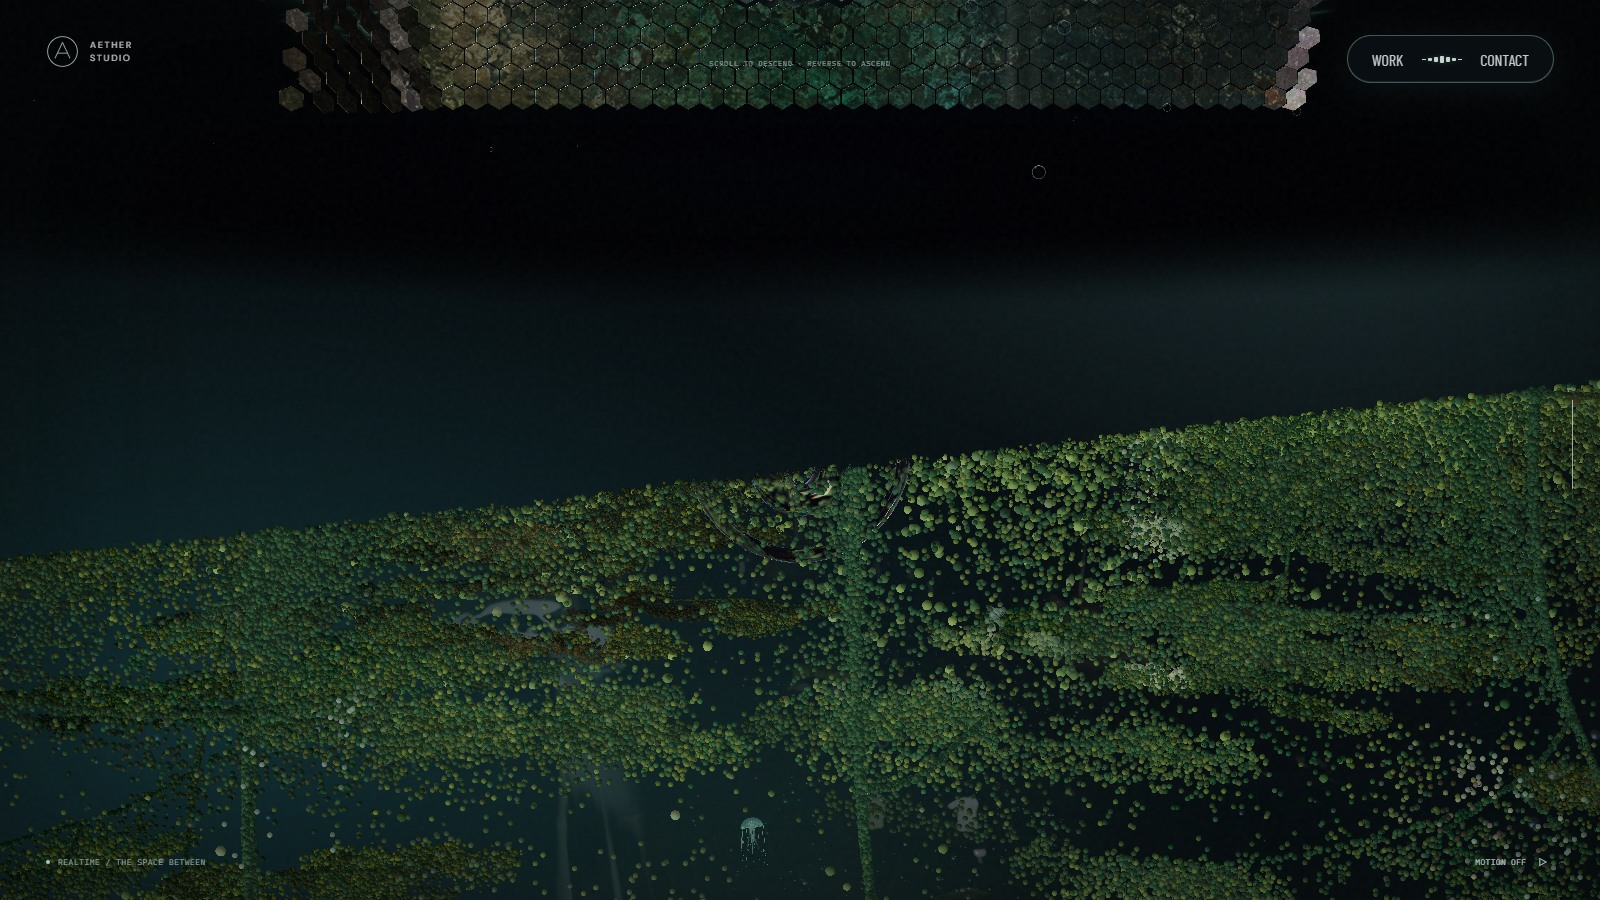
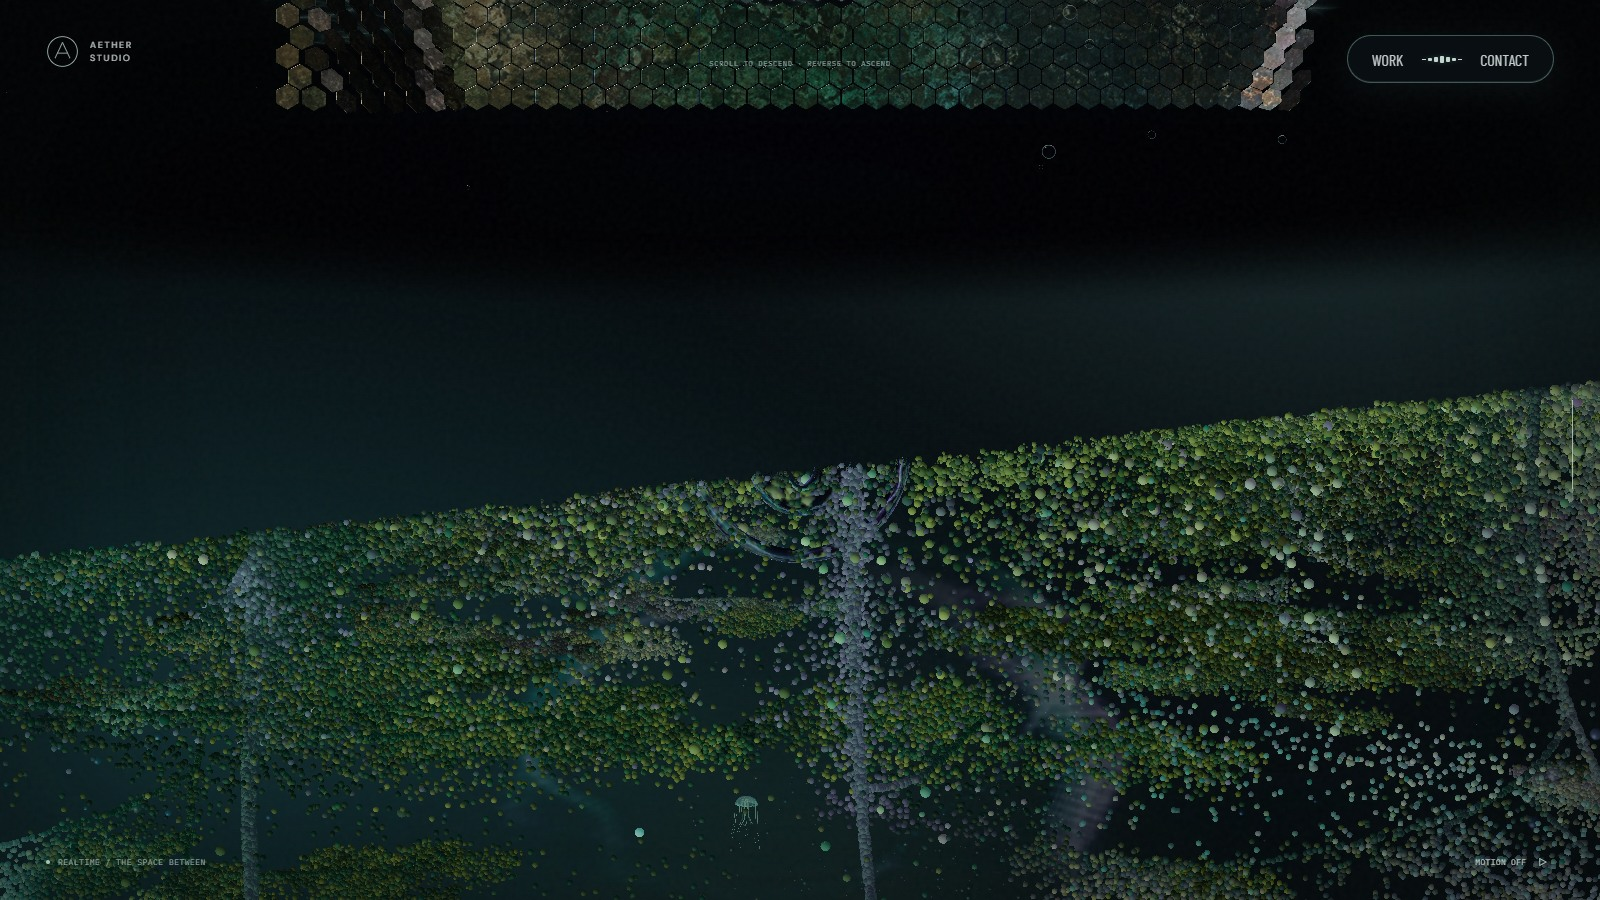
fix: preserve opaque forest depth ordering

diff --git a/src/SceneForest.ts b/src/SceneForest.ts
@@ -114,7 +114,7 @@ const microFragment = /* glsl */ `
 
     float coverage=groveCoverage();
     // A zero hash must not survive a completely closed curtain.
-    if(edge<.01||coverage<.003||coverage<hash(vSeed.xy))discard;
+    if(edge<.12||coverage<.003||coverage<hash(vSeed.xy))discard;
     vec3 n=vec3(p,sqrt(max(0.,1.-r)));
     float light=max(0.,dot(n,normalize(vec3(-.4,.65,.65))));
     vec3 olive=mix(vec3(.014,.028,.003),vec3(.17,.22,.026),vSeed.x);
@@ -124,7 +124,7 @@ const microFragment = /* glsl */ `
     color+=vec3(.22,.26,.15)*pow(light,4.)*.12;
     color+=aetherLightCloud(vWorld,vNormal,uTime,uLightDepth)*uLightStrength*(.13+light*.08);
     color+=vec3(.14,.35,.23)*pointerLight()*(.3+light*.4);
-    gl_FragColor=vec4(finishForest(color),edge);
+    gl_FragColor=vec4(finishForest(color),1.);
     #include <tonemapping_fragment>
     #include <colorspace_fragment>
   }
@@ -277,7 +277,7 @@ export function createSceneForest(scene: THREE.Scene, software: boolean, mobile:
   const particleAssets=createForestParticles(assets,budget)
   const microGeometry=particleAssets.geometry
   const microMaterial=new THREE.ShaderMaterial({
-    uniforms:shared,vertexShader:microVertex,fragmentShader:microFragment,depthWrite:true,depthTest:true,transparent:true,
+    uniforms:shared,vertexShader:microVertex,fragmentShader:microFragment,depthWrite:true,depthTest:true,
     defines:{AETHER_LIGHT_FILM:1},
   })
   materials.push(microMaterial)

diff --git a/tests/fixtures/interaction-harness.ts b/tests/fixtures/interaction-harness.ts
@@ -567,9 +567,9 @@ function probeProductionBoundaryPixels() {
     color: renderer.getClearColor(new THREE.Color()), alpha: renderer.getClearAlpha() }
   const cases = [
     { name: 'aether-spine-vertebrae', region: 'bone', progress: [.635, .65, .665] },
-    { name: 'aether-machine-aperture', region: 'device', progress: [.745, .755, .765, .82] },
-    { name: 'aether-scale-tiles', region: 'scales', progress: [.74, .75, .76, .90] },
-    { name: 'aether-floor-underside', region: 'scales', progress: [.75, .76] },
+    { name: 'aether-machine-aperture', region: 'device', progress: [.735, .745, .755, .82] },
+    { name: 'aether-scale-tiles', region: 'scales', progress: [.735, .745, .755, .90] },
+    { name: 'aether-floor-underside', region: 'scales', progress: [.745, .755] },
   ] as const
   const results = []
   try {

diff --git a/docs/verification/forest-surface-motion.md b/docs/verification/forest-surface-motion.md
@@ -4,7 +4,7 @@
 
 포레스트 보강 입자의 세로 이동 거리와 카메라 높이 기준 반응 구간을 각각 2배로 늘렸다. 시작 위치는 중심 방향으로 12% 모으고, 높은 가지부터 낮은 가지까지 순차적으로 합류한다. 추가 요청에 따라 나무 수는 약 2/3로 줄였다. 각 포레스트 기준 데스크톱 14→9, 모바일 11→7, 소프트웨어 모드 7→5그루이며 나무 높이와 입자 예산은 유지한다. 포레스트의 스크롤 회전은 양쪽 모두 절반으로 줄였으며 드래그 입력은 그대로 반영한다.
 
-넓고 평평한 수관을 만들던 긴 연결 가지와 늘어진 덩굴을 없애고 실제 줄기 끝에서 짧은 잎 묶음을 배치했다. 기존에 잎 배치에서 빠졌던 짧은 가지에도 잎을 분배하고 중앙의 빈 띠를 채웠다. 입자 경계는 화면 좌표 대신 입자별 고정값으로 처리하고, 날카로운 반짝임과 점 가장자리를 부드럽게 했다.
+넓고 평평한 수관을 만들던 긴 연결 가지와 늘어진 덩굴을 없애고 실제 줄기 끝에서 짧은 잎 묶음을 배치했다. 기존에 잎 배치에서 빠졌던 짧은 가지에도 잎을 분배하고 중앙의 빈 띠를 채웠다. 입자 경계는 화면 좌표 대신 입자별 고정값으로 처리하고 날카로운 반짝임을 완화했다. 입자는 기존 불투명 렌더 방식을 유지해 겹침 순서를 보존한다.
 
 문구의 모든 큰 글자 윤곽에서 왼쪽 아래로 직선 빛을 낸다. 추가 요청에 따라 두 글자 폭으로 조정했던 길이를 다시 2.5배 늘리고 밝기를 낮췄다. 체인은 나선 경로 이동에 접선 축 회전을 더했다. 기존 65ms 본 컬럼 추종 지연과 고리의 교차 결합을 유지한다. AT의 실제 스크롤 화면에서 고리 방향 변화는 확인했지만 내부 회전축·각도를 측정한 것은 아니다. 여기서는 해당 인상을 재현하는 자체 동작으로 구현했다.
 
